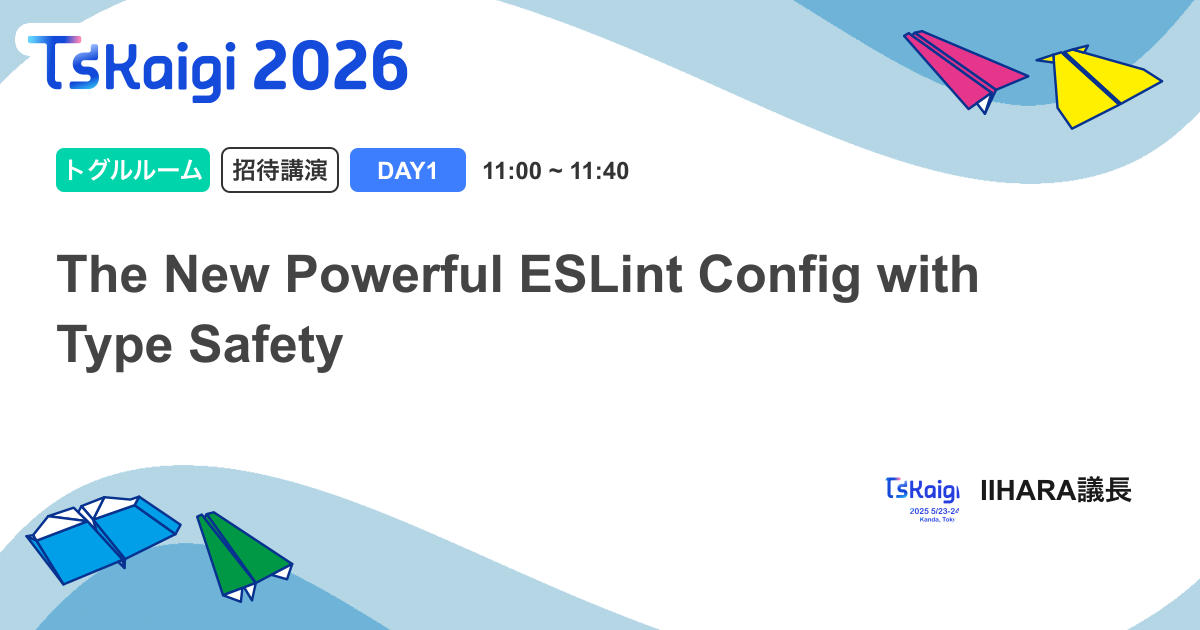
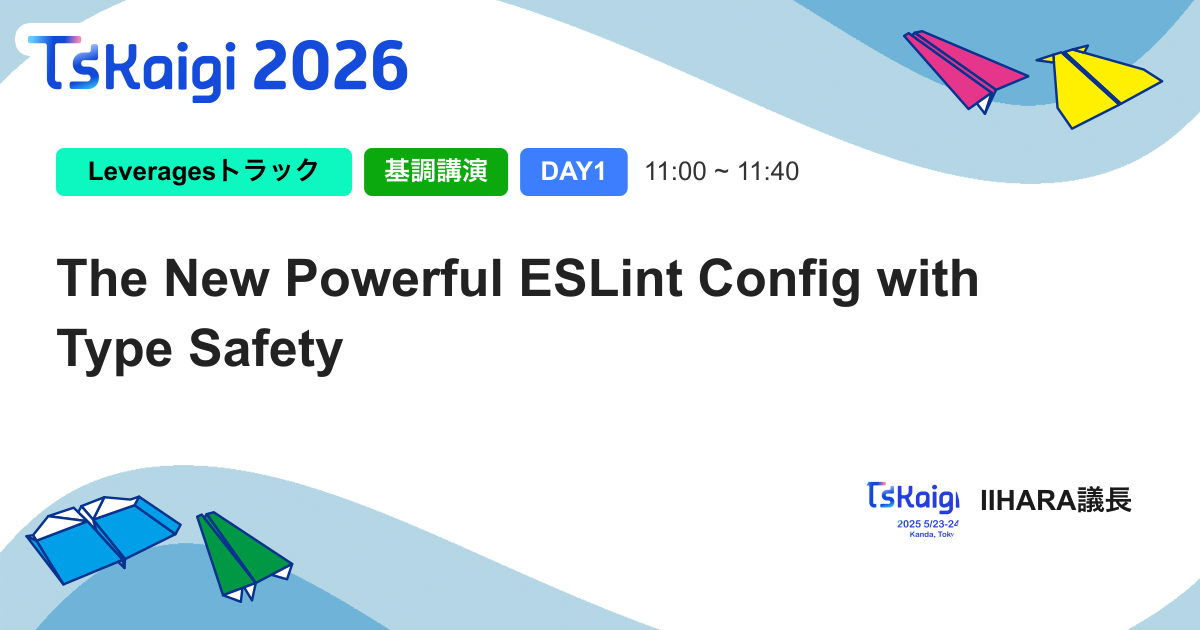
fix: use timetable color constants, adjust font sizes and profile image size

diff --git a/scripts/lib/generate-talk-ogp.ts b/scripts/lib/generate-talk-ogp.ts
@@ -1,13 +1,20 @@
 import sharp from "sharp";
 import fs from "fs";
 import path from "path";
+import {
+  TRACK_STYLE,
+  SESSION_TYPE_STYLE,
+  type TrackKey,
+  type SessionTypeKey,
+} from "./ogp-constants";
 
 export type TalkOgpInput = {
   title: string;
   profileImagePath: string;
   speakerName: string;
+  trackKey: TrackKey;
   trackName: string;
-  sessionType: string;
+  sessionTypeKey: SessionTypeKey;
   dayNumber: 1 | 2;
   timeRange: string;
   baseImagePath: string;
@@ -75,17 +82,19 @@ function badge(
   stroke?: string
 ): { svg: string; width: number } {
   const paddingH = 20;
-  const height = 44;
-  const approxCharWidth = 19;
-  const width = Math.max(label.length * approxCharWidth + paddingH * 2, 90);
+  const height = 48;
+  const fontSize = 26;
+  // 日本語の場合は1文字≈26px、英数字は1文字≈16px で近似
+  const estimatedWidth = [...label].reduce((acc, ch) => {
+    return acc + (ch.charCodeAt(0) > 127 ? fontSize : fontSize * 0.65);
+  }, 0);
+  const width = Math.max(estimatedWidth + paddingH * 2, 90);
   const cx = x + width / 2;
-  const ty = y + 31;
-  const strokeAttr = stroke
-    ? `stroke="${stroke}" stroke-width="2"`
-    : "";
+  const ty = y + 32;
+  const strokeAttr = stroke ? `stroke="${stroke}" stroke-width="2"` : "";
   const svg = `
     <rect x="${x}" y="${y}" width="${width}" height="${height}" fill="${fill}" rx="8" ${strokeAttr}/>
-    <text x="${cx}" y="${ty}" font-family="Arial, sans-serif" font-size="24" font-weight="bold" fill="${textColor}" text-anchor="middle">${escapeXml(label)}</text>`;
+    <text x="${cx}" y="${ty}" font-family="Arial, sans-serif" font-size="${fontSize}" font-weight="bold" fill="${textColor}" text-anchor="middle">${escapeXml(label)}</text>`;
   return { svg, width };
 }
 
@@ -95,45 +104,47 @@ function badge(
 function generateOgpSvg(input: SvgInput): string {
   const dayLabel = input.dayNumber === 1 ? "DAY1" : "DAY2";
   const paddingLeft = 56;
-  const paddingRight = 56;
   const badgeGap = 12;
-  const profileSize = 80;
+  const profileSize = 100;
   const profileRadius = profileSize / 2;
 
-  // バッジ群のY位置：ロゴ下（ロゴは約100px高さ）
+  // バッジ群のY位置：ロゴ下
   const badgeY = 148;
-  const badgeHeight = 44;
+  const badgeHeight = 48;
 
   // タイトル：バッジ下 + ギャップ
   const titleStartY = badgeY + badgeHeight + 100;
   const titleLineHeight = 70;
 
   // 登壇者：[画像] [名前] の順で右寄せ
-  // 画像をx=880に固定し、名前をその右に配置
-  const speakerCenterY = 500;
-  const profileX = 880;
+  const speakerCenterY = 510;
+  const profileX = 860;
   const profileCY = speakerCenterY - profileRadius;
   const nameX = profileX + profileSize + 20;
 
-  // バッジを順番に並べる
-  const trackBadge = badge(paddingLeft, badgeY, input.trackName, "#00D4AA", "#FFFFFF");
+  // トラック色（定数から参照）
+  const trackStyle = TRACK_STYLE[input.trackKey];
+  const trackBadge = badge(paddingLeft, badgeY, input.trackName, trackStyle.bg, trackStyle.text);
+
+  // セッションタイプ（定数から参照）
+  const sessionStyle = SESSION_TYPE_STYLE[input.sessionTypeKey];
   const sessionX = paddingLeft + trackBadge.width + badgeGap;
-  const sessionBadge = badge(sessionX, badgeY, input.sessionType, "#FFFFFF", "#333333", "#333333");
+  const sessionBadge = badge(sessionX, badgeY, sessionStyle.label, sessionStyle.bg, sessionStyle.text);
+
+  // DAYバッジ
   const dayX = sessionX + sessionBadge.width + badgeGap;
-  const dayBadge = badge(dayX, badgeY, dayLabel, "#3D7EFF", "#FFFFFF");
+  const dayBadge = badge(dayX, badgeY, dayLabel, "#3D7EFF", "#ffffff");
   const timeX = dayX + dayBadge.width + badgeGap + 4;
 
   // タイトル折り返し
   const titleLines = wrapTitleLines(input.title);
-
   const titleSvg = titleLines
     .map(
       (line, i) =>
-        `<text x="${paddingLeft}" y="${titleStartY + i * titleLineHeight}" font-family="Arial, sans-serif" font-size="52" font-weight="bold" fill="#444444">${escapeXml(line)}</text>`
+        `<text x="${paddingLeft}" y="${titleStartY + i * titleLineHeight}" font-family="Arial, sans-serif" font-size="52" font-weight="bold" fill="#222222">${escapeXml(line)}</text>`
     )
     .join("\n    ");
 
-  // プロフィール画像の clipPath
   const clipId = "profileClip";
 
   return `<svg xmlns="http://www.w3.org/2000/svg" xmlns:xlink="http://www.w3.org/1999/xlink" width="1200" height="630" viewBox="0 0 1200 630">
@@ -141,7 +152,6 @@ function generateOgpSvg(input: SvgInput): string {
     <clipPath id="${clipId}">
       <circle cx="${profileX + profileRadius}" cy="${profileCY + profileRadius}" r="${profileRadius}" />
     </clipPath>
-
   </defs>
 
   <!-- ベース画像 -->
@@ -151,7 +161,7 @@ function generateOgpSvg(input: SvgInput): string {
   ${trackBadge.svg}
   ${sessionBadge.svg}
   ${dayBadge.svg}
-  <text x="${timeX}" y="${badgeY + 31}" font-family="Arial, sans-serif" font-size="24" font-weight="bold" fill="#333333">${escapeXml(input.timeRange)}</text>
+  <text x="${timeX}" y="${badgeY + 32}" font-family="Arial, sans-serif" font-size="26" font-weight="normal" fill="#333333">${escapeXml(input.timeRange)}</text>
 
   <!-- タイトル -->
   ${titleSvg}

diff --git a/scripts/lib/ogp-constants.ts b/scripts/lib/ogp-constants.ts
@@ -1,0 +1,24 @@
+/**
+ * OGP生成用の色定数
+ * src/app/globals.css および src/components/talks/DayTimeTable/index.tsx から参照
+ */
+
+/** トラックIDに対応する背景色・文字色 */
+export const TRACK_STYLE = {
+  LEVERAGES: { bg: "#0cf8c0", text: "#000000" },
+  UPSIDER: { bg: "#005faa", text: "#ffffff" },
+  RIGHTTOUCH: { bg: "#000000", text: "#ffffff" },
+} as const;
+
+export type TrackKey = keyof typeof TRACK_STYLE;
+
+/** セッションタイプに対応する表示ラベル・背景色 */
+export const SESSION_TYPE_STYLE = {
+  KEYNOTE: { label: "基調講演", bg: "#0CA90E", text: "#ffffff" },
+  LONG: { label: "30分セッション", bg: "#0C7EDC", text: "#ffffff" },
+  SHORT: { label: "10分セッション", bg: "#c3620f", text: "#ffffff" },
+  SPONSOR: { label: "スポンサーセッション", bg: "#E53D84", text: "#ffffff" },
+  HANDSON: { label: "ハンズオン", bg: "#8B5CF6", text: "#ffffff" },
+} as const;
+
+export type SessionTypeKey = keyof typeof SESSION_TYPE_STYLE;

diff --git a/scripts/generate-talk-ogp.tsx b/scripts/generate-talk-ogp.tsx
@@ -6,13 +6,13 @@ import { generateAndSaveTalkOgp } from "./lib/generate-talk-ogp";
  */
 async function main() {
   try {
-    // テスト用のサンプルデータ
     const sampleInput = {
       title: "The New Powerful ESLint Config with Type Safety",
       profileImagePath: "public/logo.png",
       speakerName: "IIHARA議長",
-      trackName: "トグルルーム",
-      sessionType: "招待講演",
+      trackKey: "LEVERAGES" as const,
+      trackName: "Leveragesトラック",
+      sessionTypeKey: "KEYNOTE" as const,
       dayNumber: 1 as const,
       timeRange: "11:00 ~ 11:40",
       baseImagePath: "public/OGP-talk.png",
